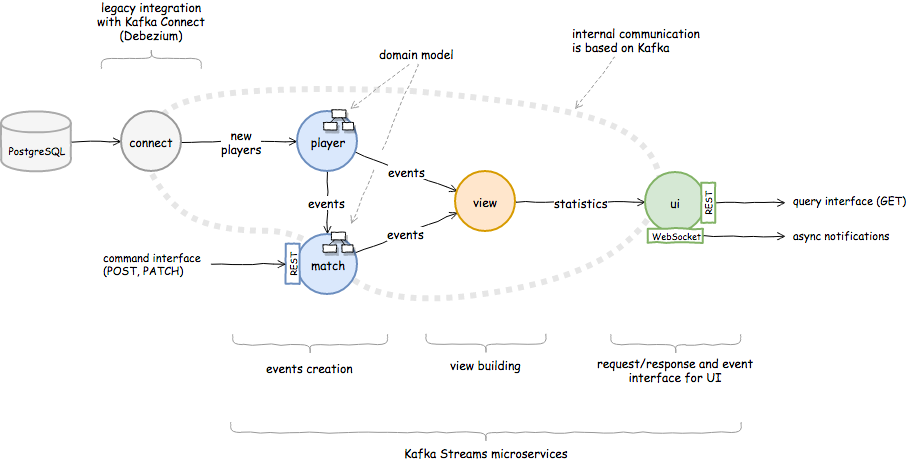
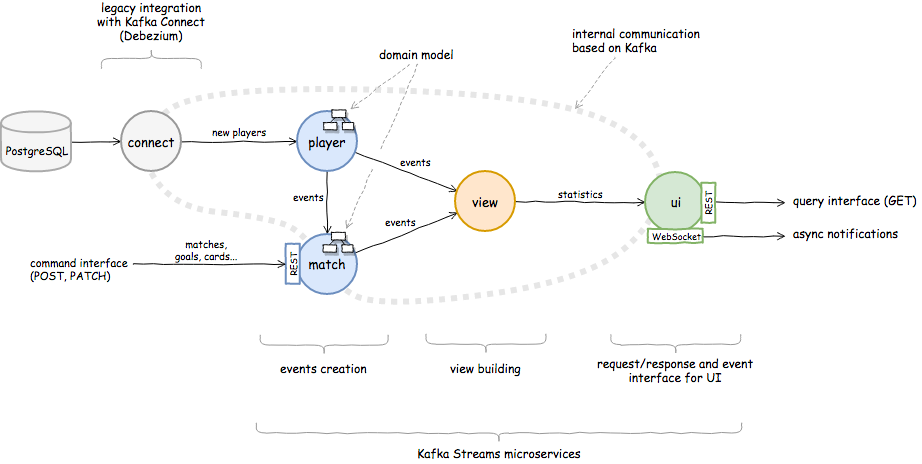
Update description, add domain model diagram

diff --git a/README.md b/README.md
@@ -8,7 +8,7 @@ This is an application that generates a simple football statistics like match sc
 
 ![architecture](docs/architecture.png)
 
-You can think of this application as a supplement to the basic code examples of Kafka Streams. Kafka Streams is used here for many purposes like aggregation, building materialized views, persisting the domain model or just exposing the output of services. Furthermore, there is no traditional database, local state stores instead (PostgreSQL plays a role of legacy system only).
+You can think of this application as a supplement to the basic code examples of Kafka Streams. Kafka Streams is used here extensively for many purposes like data processing, building materialized views, persisting the domain model and exposing the output of services. Furthermore, there is no traditional database, local state stores instead (PostgreSQL plays a role of legacy system only).
 
 This codebase is trying to apply the idea of [stateful streams processing](https://docs.confluent.io/current/streams/concepts.html#stateful-stream-processing) with [Kafka](https://kafka.apache.org/) and [Kafka Streams](https://kafka.apache.org/documentation/streams/). These blog posts are a great introduction to that concept:
 - [The Data Dichotomy: Rethinking the Way We Treat Data and Services](https://www.confluent.io/blog/data-dichotomy-rethinking-the-way-we-treat-data-and-services/)
@@ -22,10 +22,10 @@ This codebase is trying to apply the idea of [stateful streams processing](https
 - __zookeeper__,
 - __postgres__ - in the role of an external data source,
 - __[football-match](football-match/)__ - REST requests transformation into [events](football-common/src/main/java/org/djar/football/model/event/), input validation with the [domain model](https://github.com/djarza/football-events/tree/master/football-match/src/main/java/org/djar/football/match/domain),
-- __connect__ - Kafka Connect with [Debezium PostgreSQL connector](http://debezium.io/docs/connectors/postgresql/), database changes detection,
+- __connect__ - Kafka Connect with [Debezium PostgreSQL connector](http://debezium.io/docs/connectors/postgresql/), writes events for insert or update operations on PLAYERS table to a single Kafka topic,
 - __[football-player](football-player/)__ is receiving notifications from __connect__ service and creating only a single [PlayerStartedCareer event](football-common/src/main/java/org/djar/football/model/event/PlayerStartedCareer.java) using [Processor API](https://kafka.apache.org/11/documentation/streams/developer-guide/processor-api.html) (see the [code](football-player/src/main/java/org/djar/football/player/snapshot/DomainUpdater.java)),
 - __[football-view](football-view/)__ - builds the statistics from the events using [Kafka Streams DSL](https://kafka.apache.org/11/documentation/streams/developer-guide/dsl-api.html), it's the main place where streams are created and processed (see [below](#events-and-streams)),
-- __[football-ui](football-ui/)__ - saves the statistics into materialized views (local state stores) and exposes via [REST API](football-ui/src/main/java/org/djar/football/ui/controller/StatisticsController.java).
+- __[football-ui](football-ui/)__ - saves the statistics into materialized views (local state stores), exposes them via [REST API](football-ui/src/main/java/org/djar/football/ui/controller/StatisticsController.java) and publishes using [WebSocket](football-ui/src/main/java/org/djar/football/ui/StatisticsKeeper.java).
 
 Additional modules:
 - __[football-common](football-common/)__ - contains some code that is shared among microservices (obviously it's not a good practice for production), especially:
@@ -34,28 +34,40 @@ Additional modules:
 - __[football-tests](football-tests/)__ - demo application and integration tests.
 
 
-## Events and streams
+## Events and Streams
 
 Each [event](football-common/src/main/java/org/djar/football/model/event/) represents a state change that occurred to the system.
 
 | Event               | Fields                                                 |
 | ------------------- | ------------------------------------------------------ |
-| MatchScheduled      | match id, season, home club, away club, matchDate           |
+| MatchScheduled      | match id, season, home club, away club, matchDate      |
 | MatchStarted        | match id, home club, away club                         |
 | GoalScored          | goal id, match id, minute, scorer, scored for          |
 | CardReceived        | card id, match id, minute, receiver, type (yellow/red) |
 | MatchFinished       | match id                                               |
 | PlayerStartedCareer | palyer id, name                                        |
 
-These events are the source for stream processing. For example, in order to determine the result of a match, you must join MatchStarted and GoalScored streams and then count the goals (see the [code](football-view/src/main/java/org/djar/football/view/projection/StatisticsBuilder.java)).
+These events are the source for stream processing. For example, in order to determine the result of a match, you must join MatchStarted and GoalScored streams and then count the goals (see the [code](football-view/src/main/java/org/djar/football/view/StatisticsBuilder.java)).
 
 
-## Kafka topics
+## Domain Model
+
+![model](docs/model.png)
+
+
+## Kafka Topics
+
+Topics are organized under logical groups as follows:
+- __fb-event.*__ - containing events generated by [football-match](football-match/) and [football-player](football-player/)
+- __fb-view.*__ - statistics produced by [football-view](football-view/)
+- __fb-connect.*__ - events from the PostgreSQL connector
+
+The prefixes above aim to separate the application topics from the internal Kafka Streams and Debezium topics.
 
 ![topics](docs/topics.png)
 
 
-## REST endpoints
+## REST Endpoints
 
 There are only two REST endpoits and both of them are accessed from the outside of the system:
 - [Query interface](football-ui/src/main/java/org/djar/football/ui/controller/StatisticsController.java) in __football-ui__,
@@ -64,7 +76,7 @@ There are only two REST endpoits and both of them are accessed from the outside 
 
 ## How to run
 
-- Add kafka bootstrap address to your /etc/hosts:
+1. Add kafka bootstrap address to your `/etc/hosts`:
     ```
     127.0.0.1 kafka
     127.0.0.1 postgres
@@ -74,18 +86,20 @@ There are only two REST endpoits and both of them are accessed from the outside 
     127.0.0.1 football-view
     127.0.0.1 football-ui
     ```
-- Build microservices and Docker containers:
+2. Build microservices and Docker containers:
     ```
     cd football
     mvn install
     ```
-- Build and run the demo application:
+3. Build and run the demo application:
     ```
     cd football-tests
     mvn install -DskipTests
     java -jar target/football-tests-0.0.1-SNAPSHOT-jar-with-dependencies.jar
     ```
-- Wait a minute and launch [http://localhost:18080/](http://localhost:18080/). In a few seconds you should see some statistics updated in real time:
+    It will start Docker containers and wait until all microservices are ready.
+    
+4. Wait a minute and launch [http://football-ui:18080/](http://football-ui:18080/). In a few seconds you should see some statistics updated in real time:
 
 ![demo](docs/demo.gif)
 
